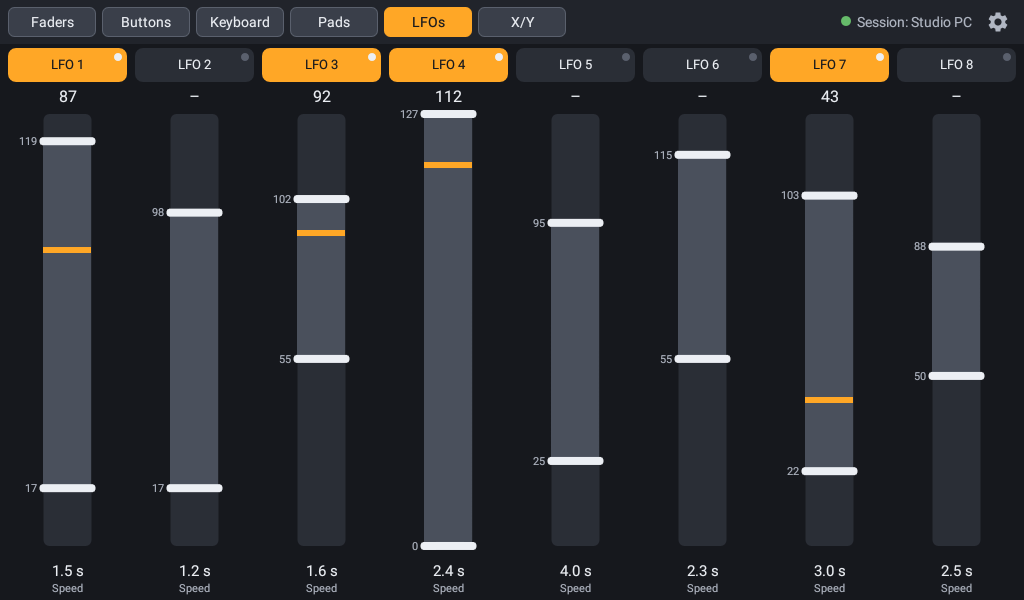
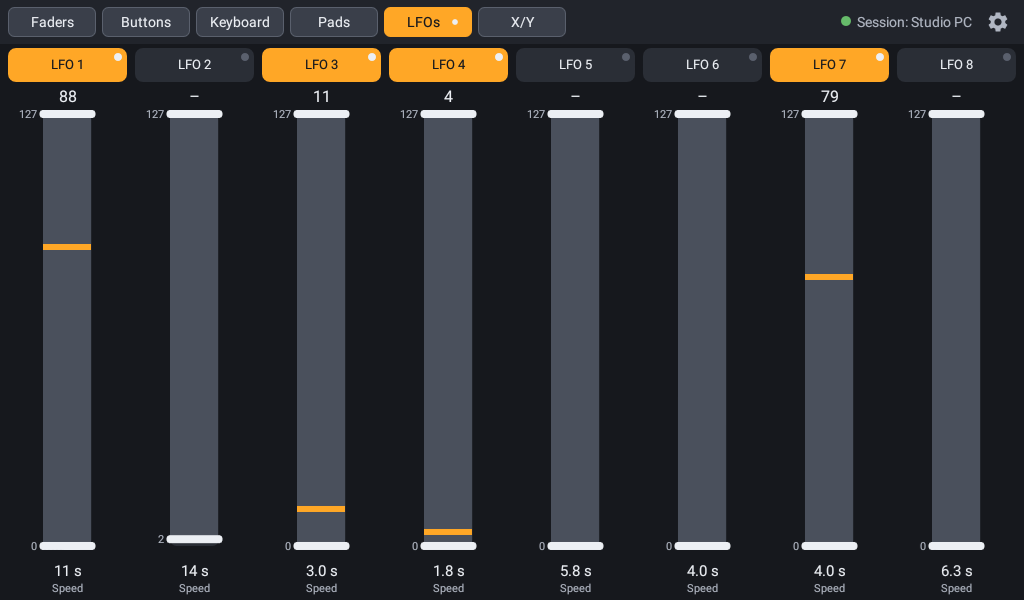
Arp keeps playing across Pages; Keyboard and LFOs indicators

diff --git a/app/src/main/java/com/duddex/faderling/MainActivity.kt b/app/src/main/java/com/duddex/faderling/MainActivity.kt
@@ -41,6 +41,7 @@ class MainActivity : Activity(), ControlListener, KeyboardView.Listener, PadGrid
     private lateinit var holdButton: TextView
     private lateinit var arpButton: TextView
     private lateinit var arpEngine: ArpEngine
+    private lateinit var lfoEngine: LfoEngine
     private lateinit var arpPatternValue: TextView
     private lateinit var arpTempoValue: TextView
     private lateinit var arpTempoBar: SeekBar
@@ -83,6 +84,7 @@ class MainActivity : Activity(), ControlListener, KeyboardView.Listener, PadGrid
 
         store = AssignmentStore(this)
         endpoint = (application as FaderlingApp).endpoint
+        lfoEngine = (application as FaderlingApp).lfos
         sessionStatus = findViewById(R.id.sessionStatus)
         findViewById<ImageButton>(R.id.settingsButton).setOnClickListener {
             startActivity(Intent(this, SettingsActivity::class.java).putExtra(SettingsActivity.EXTRA_PAGE, currentPage))
@@ -92,6 +94,8 @@ class MainActivity : Activity(), ControlListener, KeyboardView.Listener, PadGrid
         tabs = listOf(R.id.tabFaders, R.id.tabButtons, R.id.tabKeyboard, R.id.tabPads, R.id.tabLfos, R.id.tabXy).mapIndexed { page, id ->
             findViewById<TextView>(id).apply { setOnClickListener { showPage(page) } }
         }
+        val dotPadding = (3 * resources.displayMetrics.density).toInt()
+        tabs.forEach { it.compoundDrawablePadding = dotPadding }
 
         addControls(listOf(findViewById(R.id.faders)), ControlKind.FADER, faders) { FaderView(this).apply { listener = this@MainActivity } }
         addControls(listOf(findViewById(R.id.buttonsRow1), findViewById(R.id.buttonsRow2)), ControlKind.BUTTON, buttons) { ButtonView(this).apply { listener = this@MainActivity } }
@@ -105,6 +109,7 @@ class MainActivity : Activity(), ControlListener, KeyboardView.Listener, PadGrid
         holdButton = findViewById<TextView>(R.id.holdButton).apply { setOnClickListener { setHold(!heldNotes.hold) } }
         arpButton = findViewById<TextView>(R.id.arpButton).apply { setOnClickListener { setArp(!arpOn) } }
         arpEngine = ArpEngine(::noteOn, ::noteOff)
+        arpEngine.onRunningChanged = { updateTabIndicators() }
         setUpArpGroup()
         showKeyboardRange()
         showArp()
@@ -112,7 +117,6 @@ class MainActivity : Activity(), ControlListener, KeyboardView.Listener, PadGrid
         padGrid = PadGridView(this).apply { listener = this@MainActivity }
         findViewById<FrameLayout>(R.id.padsPage).addView(padGrid)
 
-        val lfoEngine = (application as FaderlingApp).lfos
         val lfosPage = findViewById<LinearLayout>(R.id.lfosPage)
         repeat(Lfos.COUNT) { i ->
             val strip = LfoStripView(this, i, lfoEngine)
@@ -149,12 +153,14 @@ class MainActivity : Activity(), ControlListener, KeyboardView.Listener, PadGrid
 
     private fun showPage(page: Int) {
         if (page != currentPage) {
-            stopKeyboard()
+            if (currentPage == KEYBOARD_PAGE) leaveKeyboardPage()
             padGrid.releaseAll()
         }
         currentPage = page
         pages.forEachIndexed { i, v -> v.visibility = if (i == page) View.VISIBLE else View.GONE }
         tabs.forEachIndexed { i, t -> t.isSelected = i == page }
+        if (page == KEYBOARD_PAGE) showLatched()
+        updateTabIndicators()
     }
 
     override fun onSaveInstanceState(outState: Bundle) {
@@ -315,6 +321,17 @@ class MainActivity : Activity(), ControlListener, KeyboardView.Listener, PadGrid
         chordNotes.clear()
     }
 
+    /** Leaves the Keyboard Page; the Arp keeps running if Hold is on and it has Notes. */
+    private fun leaveKeyboardPage() {
+        keyboard.releaseAll()
+        if (arpOn && arpEngine.isRunning && heldNotes.hold && heldNotes.notes().isNotEmpty()) {
+            showLatched()
+            updateTabIndicators()
+            return
+        }
+        stopKeyboard()
+    }
+
     /** Stops the Arp and releases every Key and Note, e.g. when leaving the Page or the App. */
     private fun stopKeyboard() {
         keyboard.releaseAll()
@@ -325,6 +342,16 @@ class MainActivity : Activity(), ControlListener, KeyboardView.Listener, PadGrid
         arpButton.isSelected = false
         holdButton.isSelected = false
         showLatched()
+        updateTabIndicators()
+    }
+
+    private fun updateTabIndicators() {
+        setTabIndicator(tabs[KEYBOARD_PAGE], arpEngine.isRunning)
+        setTabIndicator(tabs[LFO_PAGE], (0 until Lfos.COUNT).any { lfoEngine.isRunning(it) })
+    }
+
+    private fun setTabIndicator(tab: TextView, on: Boolean) {
+        tab.setCompoundDrawablesRelativeWithIntrinsicBounds(0, 0, if (on) R.drawable.tab_dot else 0, 0)
     }
 
     private fun showLatched() {
@@ -386,7 +413,7 @@ class MainActivity : Activity(), ControlListener, KeyboardView.Listener, PadGrid
         padAssignments = store.loadPads()
         padSettings = store.loadPadSettings()
         padGrid.names = padAssignments.map { it.name }
-        (application as FaderlingApp).lfos.reloadAssignments()
+        lfoEngine.reloadAssignments()
         lfoStrips.forEach { it.invalidate() }
         xyAssignments = store.loadXyAssignments()
         xyPadViews.forEachIndexed { i, v -> v.name = xyAssignments[i].name }
@@ -421,10 +448,13 @@ class MainActivity : Activity(), ControlListener, KeyboardView.Listener, PadGrid
 
     override fun onStart() {
         super.onStart()
+        lfoEngine.onStateChanged = { updateTabIndicators() }
+        updateTabIndicators()
         endpoint.listener = RtpMidiEndpoint.SessionsListener { names -> showSession(names.takeIf { it.isNotEmpty() }?.joinToString(", ")) }
     }
 
     override fun onStop() {
+        lfoEngine.onStateChanged = null
         endpoint.listener = null
         handler.removeCallbacks(idleTick)
         super.onStop()
@@ -495,5 +525,7 @@ class MainActivity : Activity(), ControlListener, KeyboardView.Listener, PadGrid
     private companion object {
         const val RESEND_DELAY_MS = 150L
         const val STATE_PAGE = "page"
+        const val KEYBOARD_PAGE = 2
+        const val LFO_PAGE = 4
     }
 }

diff --git a/app/src/main/java/com/duddex/faderling/LfoEngine.kt b/app/src/main/java/com/duddex/faderling/LfoEngine.kt
@@ -23,6 +23,9 @@ class LfoEngine(private val store: AssignmentStore, private val endpoint: RtpMid
     private var lastTick = 0L
     private var active = false
 
+    /** Called after an LFO is switched on/off or the engine stops, e.g. for the LFOs tab indicator. */
+    var onStateChanged: (() -> Unit)? = null
+
     var assignments: List<LfoAssignment> = store.loadLfoAssignments()
         private set
     private val ranges: MutableList<LfoRange> = store.loadLfoRanges().toMutableList()
@@ -53,6 +56,7 @@ class LfoEngine(private val store: AssignmentStore, private val endpoint: RtpMid
             s.lastSentAt = 0L
             update(index, SystemClock.uptimeMillis())
         }
+        onStateChanged?.invoke()
     }
 
     /** Starts ticking; called when the app becomes visible. LFOs themselves stay off until switched on. */
@@ -65,9 +69,11 @@ class LfoEngine(private val store: AssignmentStore, private val endpoint: RtpMid
 
     /** Stops ticking and switches every LFO off; called when the app leaves the screen. */
     fun stop() {
+        val wasRunning = states.any { it.running }
         active = false
         handler.removeCallbacks(tick)
         states.forEach { it.running = false }
+        if (wasRunning) onStateChanged?.invoke()
     }
 
     private val tick = object : Runnable {

diff --git a/app/src/main/java/com/duddex/faderling/ArpEngine.kt b/app/src/main/java/com/duddex/faderling/ArpEngine.kt
@@ -29,6 +29,9 @@ class ArpEngine(
     var isRunning = false
         private set
 
+    /** Called whenever the Arp starts or stops, e.g. to update the Keyboard tab indicator. */
+    var onRunningChanged: (() -> Unit)? = null
+
     fun start(notes: List<Int>, settings: ArpSettings, channel: Int, velocity: Int) {
         stop()
         this.notes = notes
@@ -43,6 +46,7 @@ class ArpEngine(
         previousRandom = null
         stepAt = SystemClock.uptimeMillis()
         handler.postAtTime(tick, token, stepAt)
+        onRunningChanged?.invoke()
     }
 
     /** The held Notes changed; a sounding Note finishes its Gate and the next step uses the new set. */
@@ -78,9 +82,11 @@ class ArpEngine(
     }
 
     fun stop() {
+        val wasRunning = isRunning
         isRunning = false
         handler.removeCallbacksAndMessages(token)
         endSoundingNote()
+        if (wasRunning) onRunningChanged?.invoke()
     }
 
     private val tick: Runnable = object : Runnable {

diff --git a/README.md b/README.md
@@ -26,7 +26,7 @@ Faderling has six Pages, switched with the tabs in the top bar. The top bar also
 
 25 keys (two octaves, C to C) sending Note On/Note Off, with chords and sliding across keys (glissando). *Oct −/Oct +* shift the range, shown in Ableton's note names (default C2–C4, i.e. notes 48–72). On phones the Keyboard shows one and a half octaves (C3–F4) with wider keys.
 
-The Keyboard bar has **Hold** and **Arp** next to *Oct −/Oct +*. Below it, the **Arp** group has the Pattern, Tempo, Rate, Octaves and Gate controls directly on the page: tap Pattern, Rate or Octaves to cycle, drag the Tempo and Gate sliders. The same values are in the Keyboard settings. Hold keeps the notes sounding after you lift your fingers; while you hold at least one key, new notes add to the latched chord, and after you release everything the next chord replaces it. Hold works with the Arp off too, as a chord latch. Arp plays the held notes one at a time: Up, Down, Up/Down, Random or As played, over 1–4 octaves, with Tempo 40–240 BPM, Rate 1/4 to 1/32 including triplets, and Gate 10–90 %. The Arp uses its own tempo because Faderling only sends MIDI and cannot follow the MIDI clock of the DAW; set the same BPM as your DAW for the same speed, but the Arp is not locked to the DAW's beat.
+The Keyboard bar has **Hold** and **Arp** next to *Oct −/Oct +*. Below it, the **Arp** group has the Pattern, Tempo, Rate, Octaves and Gate controls directly on the page: tap Pattern, Rate or Octaves to cycle, drag the Tempo and Gate sliders. The same values are in the Keyboard settings. Hold keeps the notes sounding after you lift your fingers; while you hold at least one key, new notes add to the latched chord, and after you release everything the next chord replaces it. Hold works with the Arp off too, as a chord latch. With Hold on, the Arp keeps playing when you switch to another Page; a dot on the Keyboard tab shows while it plays. Arp plays the held notes one at a time: Up, Down, Up/Down, Random or As played, over 1–4 octaves, with Tempo 40–240 BPM, Rate 1/4 to 1/32 including triplets, and Gate 10–90 %. The Arp uses its own tempo because Faderling only sends MIDI and cannot follow the MIDI clock of the DAW; set the same BPM as your DAW for the same speed, but the Arp is not locked to the DAW's beat.
 
 ### Pads
 
@@ -38,7 +38,7 @@ The Keyboard bar has **Hold** and **Arp** next to *Oct −/Oct +*. Below it, the
 
 ![LFOs Page](docs/images/lfos.png)
 
-8 LFOs that move a CC value up and down along a sine on their own, by default on CC 102–109. Each has an on/off button (with LED), a bar where you drag the Min and Max handles (Min above Max runs inverted) and a Speed of 0.2–120 s per cycle (drag up/down). Slide along the on/off buttons to switch several LFOs at once: every LFO you pass flips between on and off. LFOs keep running while you switch Pages, start switched off when the app starts and send at most 50 messages per second. Sharing CCs with Controls is intended.
+8 LFOs that move a CC value up and down along a sine on their own, by default on CC 102–109. Each has an on/off button (with LED), a bar where you drag the Min and Max handles (Min above Max runs inverted) and a Speed of 0.2–120 s per cycle (drag up/down). Slide along the on/off buttons to switch several LFOs at once: every LFO you pass flips between on and off. LFOs keep running while you switch Pages, start switched off when the app starts and send at most 50 messages per second; a dot on the LFOs tab shows while any LFO is running. Sharing CCs with Controls is intended.
 
 ### X/Y
 
@@ -55,7 +55,7 @@ The gear icon opens the settings on the tab of the Page you are on. Each Page ha
 ## General
 
 - 7-bit CC (0–127), send-only, landscape; all CCs default to channel 1
-- Every Control re-sends its final value shortly after release, and every Note Off is sent twice, to make up for lost Wi-Fi packets; held notes are released and the Arpeggiator stops when you switch Pages or leave the app
+- Every Control re-sends its final value shortly after release, and every Note Off is sent twice, to make up for lost Wi-Fi packets; held notes and the Arpeggiator stop when you leave the app. With Hold on, the Arpeggiator keeps playing when you switch Pages; the Keyboard and LFOs tabs show a dot while the Arp or any LFO is running.
 - Advertises itself via Bonjour as **Faderling** plus the device model (e.g. *Faderling KFAUWI*), so several tablets can be told apart; the receiver starts the Session
 - Keeps the screen on while a Page is shown (not on the settings screen, where the normal screen timeout applies); plug the tablet in for longer sessions
 - Runs fullscreen: status and navigation bar are hidden while a Page is shown, swipe from the screen edge to bring them back for a moment. The settings screen keeps them.

diff --git a/GLOSSARY.md b/GLOSSARY.md
@@ -40,6 +40,10 @@ _Avoid_: Mapping, binding, config
 One screen of the app; there is a Faders Page, a Buttons Page, a Keyboard Page, a Pads Page, an LFOs Page and an XY Page.
 _Avoid_: Tab, screen, view
 
+**Page Indicator**:
+The small dot after the Keyboard or LFOs tab label that shows while the Arp is playing or any LFO is running.
+_Avoid_: LED, badge
+
 ### Keyboard
 
 **Keyboard**:
@@ -51,11 +55,11 @@ One white or black key of the Keyboard; pressing it sends Note On, releasing it 
 _Avoid_: Note
 
 **Hold**:
-A Keyboard toggle that keeps Keys sounding after they are released. While at least one Key is held, new Keys add to the latched chord; after all Keys are released, the next Key or chord replaces it. It works with the Arpeggiator on or off, and is not the Latch mode of a Button.
+A Keyboard toggle that keeps Keys sounding after they are released. While at least one Key is held, new Keys add to the latched chord; after all Keys are released, the next Key or chord replaces it. It works with the Arpeggiator on or off, and is not the Latch mode of a Button. With the Arp on, Hold also keeps the Arp playing while you switch Pages.
 _Avoid_: Latch (for the Keyboard), Sustain
 
 **Arpeggiator**:
-A Keyboard mode that plays the held Notes one at a time at an internal Tempo instead of as a chord. The bar button and the short form are *Arp*.
+A Keyboard mode that plays the held Notes one at a time at an internal Tempo instead of as a chord. The bar button and the short form are *Arp*; a Page Indicator on the Keyboard tab shows while it plays.
 _Avoid_: Arpeggio, sequencer
 
 **Arp Group**:
@@ -95,7 +99,7 @@ _Avoid_: Pad mapping, drum map
 ### LFOs
 
 **LFO**:
-One of 8 low-frequency oscillators that moves a CC value continuously up and down along a sine between its Min and Max, taking its Speed for one full cycle. It is not a Control; it may target the same CC as a Control on purpose.
+One of 8 low-frequency oscillators that moves a CC value continuously up and down along a sine between its Min and Max, taking its Speed for one full cycle. It is not a Control; it may target the same CC as a Control on purpose. A Page Indicator on the LFOs tab shows while any LFO is running.
 _Avoid_: Modulator, automation, oscillator
 
 **Speed**:

diff --git a/CHANGELOG.md b/CHANGELOG.md
@@ -9,6 +9,7 @@ All notable changes to Faderling are documented here. The format follows [Keep a
 - Faders Page: each fader has a Max (0–127, default 100) in the Faders settings. Touching or sliding along the values at the top sets faders to their Max instead of always 127; dragging a fader still goes up to 127.
 - Without a Session, the top bar cycles through "Not connected", the device's IP address and port, and the name Faderling announces itself with – handy for adding a device by hand in rtpMIDI when it does not show up in the Directory.
 - Keyboard Page: **Hold** and **Arp** in the Keyboard bar next to the octave buttons, plus an **Arp** group that sets Pattern, Tempo, Rate, Octaves and Gate directly on the page (the same values are in the Keyboard settings). Hold keeps notes sounding after release (also without the Arp); the Arpeggiator plays them one at a time with Up, Down, Up/Down, Random and As played patterns over 1–4 octaves, at 40–240 BPM and 1/4–1/32 with a 10–90 % Gate. The Arp has its own tempo because Faderling cannot receive MIDI clock.
+- Arp: with Hold on, it keeps playing when you switch Pages; the Keyboard and LFOs tabs show a dot while the Arp or any LFO is running.
 
 ## [1.2.0] – 2026-10-25
 
